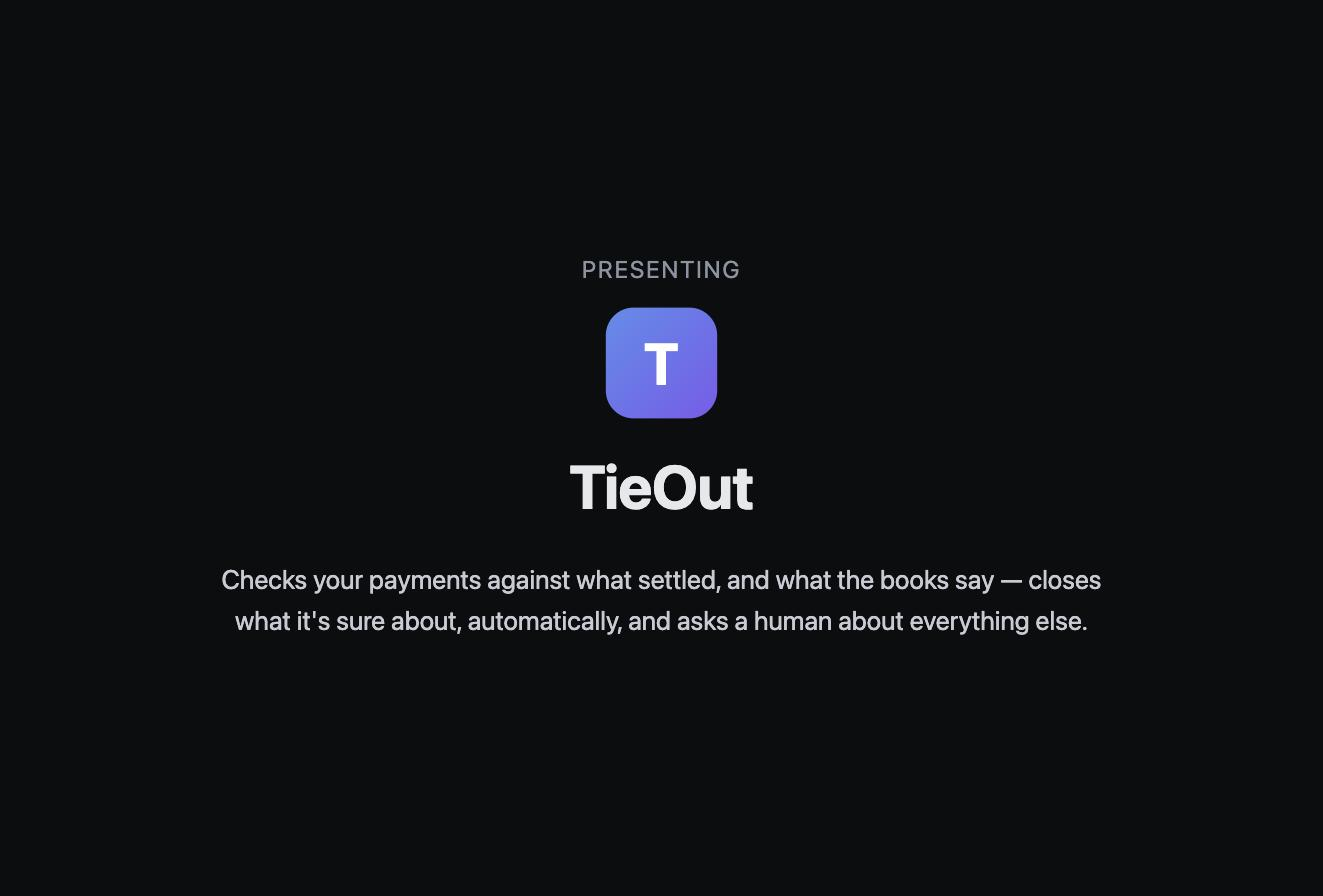
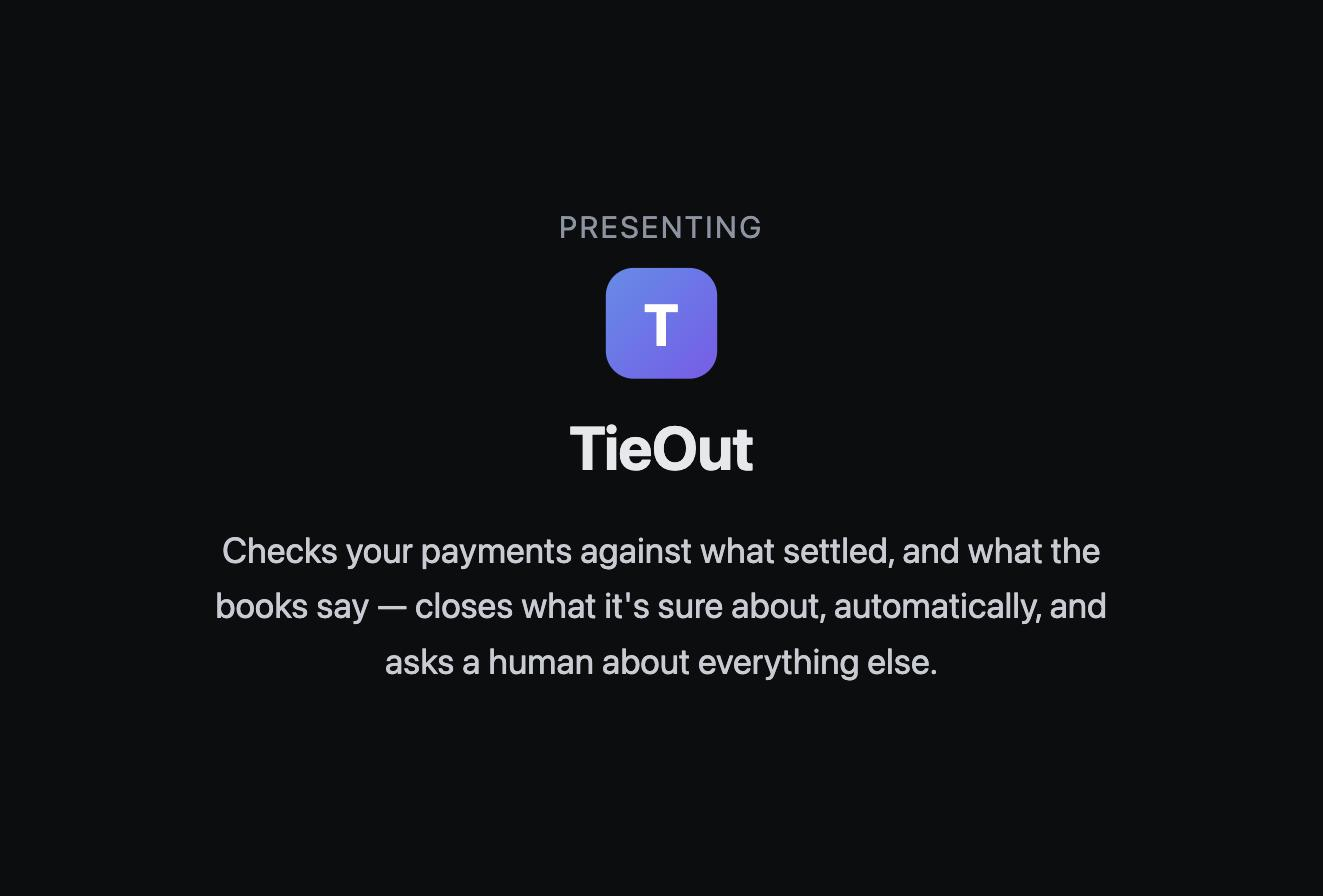
Reframe failure beat honestly, fix card visuals (font size, card 5 title)
No genuine bug exists in the core matching logic itself (verified
against git history and this project's own build log) -- declined to
fabricate one when asked to. Reframed card 4 as "what usually breaks
in this class of system, and why this one doesn't" instead: real
domain knowledge (floating-point money bugs, one-payment-per-order
assumptions) paired with this engine's actual defenses. Documented
plainly in VIDEO_SCRIPT.md that this isn't a literal incident story,
so it's not a surprise if asked about directly.

Also: caption text on cards 3/4/5 was too small next to the headline
(1.7-2vw vs 4.8-5.6vw) -- bumped to 2.3-2.7vw. Card 5's title ("Not
invented. Built on it.") required the subtitle to make sense --
replaced with "Nothing here is faked," which stands on its own.

Claude-Session: https://claude.ai/code/session_01AbR22vDa4TFpbHsYdBaas3

Changed region(s): [[0.155, 0.2188, 0.8367, 0.7812]]

diff --git a/docs/VIDEO_SCRIPT.md b/docs/VIDEO_SCRIPT.md
@@ -87,8 +87,8 @@ each of the 5 cards before moving to Part 2.
 | `card1_problem_1.jpg` | `card1.mp4` | *"A customer pays. The gateway settles it. The books record it. Three numbers — that are supposed to be the same number."* |
 | `card2_problem_2.jpg` | `card2.mp4` | *"Most companies still check that by hand. One missed mismatch is real money, quietly gone."* |
 | `card3_tieout_intro.jpg` | `card3.mp4` | *"Presenting TieOut. It checks your payments against what settled, and what the books say — closes what it's sure about, automatically, and asks a human about everything else. Let's see it in action."* |
-| `card4_failure_recovery.jpg` | `card4.mp4` | *"What broke — and how we found out. Here's a real one, from today. We wired a live AI model into the product's chat, and it broke instantly — silently. Every question just quietly fell back to the safe default, like nothing was even connected. The easy guess was a bad API key. It wasn't. We went straight to the provider's own API instead of guessing, and found two real bugs stacked on each other: the model we'd defaulted to had just been deprecated, and its replacement was so slow out of the box — over twenty seconds a call — that every request was silently timing out before an answer could ever come back. Found both, fixed both, verified live against the real API before it ever touched production again. That's the standard here: when something quietly falls back to safe, don't assume it's fine — go find out why it's hiding."* |
-| `card5_close.jpg` | `card5.mp4` | *"None of this is invented. Order data comes live from Razorpay's actual test-mode API. Payment and settlement data is built field-for-field to match their real documented schema — including the exact quirk that makes the multi-payment case genuinely ambiguous, not staged for a demo. Knowing when not to act — that's the judgment this role is actually asking to see."* |
+| `card4_failure_recovery.jpg` | `card4.mp4` | *"What usually breaks — and why this doesn't. Most reconciliation engines get built the fast way: compare amounts as decimals, assume one payment per order, auto-close anything that looks clean. Every one of those is a real, common failure mode. Floating-point comparison quietly drifts. Assuming one payment per order means a real multi-payment order gets silently attributed to the wrong one. This engine does neither. Amounts are integer paise, never floats, so every comparison is exact — and a multi-payment order isn't guessed at, it's flagged, because Razorpay's own settlement schema genuinely can't say which payment a line belongs to. None of this was found by breaking in production. It was built test-first, one rule at a time, against a written spec — with an AI coding agent enforcing that discipline case by case, instead of shipping first and debugging later."* |
+| `card5_close.jpg` | `card5.mp4` | *"Nothing here is faked. Order data comes live from Razorpay's own test API. Payments and settlements are built field-for-field to match their real documented schema — that's where the multi-payment ambiguity you just saw actually comes from: a real quirk in their data, not something made up to look impressive. Knowing when not to act — that's the judgment this role is actually asking to see."* |
 
 Card 4's line is long — it's fine to read it a little slower, or pause
 briefly in the middle. Don't rush it.
@@ -296,6 +296,18 @@ reach its later pages, and follow whatever it says instead if it differs.
   and 8 in Part 2 take 10-25 seconds instead of being instant, and why
   step 8's answer is a real generated sentence rather than a canned "I
   don't know" message.
+- **Card 4 is deliberately framed as "what usually goes wrong in this
+  class of system," not a specific incident.** No genuine bug was ever
+  found in the core matching logic itself (checked directly against git
+  history and this project's own build log before writing it this way) —
+  every real bug this project hit was in the surrounding layers (tests,
+  UI, infra, the Gemini integration), not the comparison rules. The
+  content is real domain knowledge (floating-point money bugs and
+  one-payment-per-order assumptions are genuine, common failure modes)
+  and the claims about this specific engine (integer paise, the
+  multi-payment abstention) are real and verifiable — it's just not a
+  "here's what broke" story the way the buildathon's own phrasing
+  ("what broke at 2 AM") implies. Know that distinction if asked about it.
 - For the full reasoning behind every choice in this script (why these
   specific numbers, why cards instead of just narration, why the failure
   story is what it is), see `docs/STATUS.md` — this doc is intentionally

diff --git a/docs/STATUS.md b/docs/STATUS.md
@@ -1180,6 +1180,38 @@ per card and the demo's click/say sequence are unchanged from the prior
 version's content — this was a structural/format rewrite, not a rewrite of
 what's actually said.
 
+## Card 4/5 rewritten again; card font sizes fixed (2026-09-05)
+
+Two more rounds of feedback on the card content and the images
+themselves:
+
+**Card 4's content changed a second time.** Asked directly whether a real
+bug existed in the core matching logic itself (not tests, UI, infra, or
+the Gemini integration) — checked git history (`git log` on
+`engine.py`/`generate.py`/`evaluate.py`) and every bug/fix mention in this
+file, and none exists; every real bug this project hit was in the layers
+around the core engine, not the comparison rules themselves, consistent
+with `engine.py` having been built test-first against `taxonomy.py`'s
+spec rather than iteratively debugged. Declined to fabricate a fake
+incident for this reason (explicitly, when asked to) — an invented story
+that unravels under a follow-up question in the "architecture explanation"
+round is a worse outcome than a true story that's slightly less dramatic.
+Landed on a different, honest framing instead: "what usually breaks in
+this class of system, and why this one doesn't" — real domain knowledge
+(floating-point money bugs, one-payment-per-order assumptions) paired with
+this engine's actual real defenses (integer paise, the multi-payment
+abstention). This is not a "what broke" story the way the buildathon's own
+phrasing implies, and `VIDEO_SCRIPT.md`'s Notes section says so plainly,
+so nobody's caught flat-footed if asked about it directly.
+
+**Card visuals fixed**: the caption/subtitle text on cards 3, 4, and 5 was
+too small relative to the giant bold headline (1.7-2vw vs the headline's
+4.8-5.6vw) — bumped to 2.3-2.7vw across all three. Card 5's title ("Not
+invented. Built on it.") didn't stand on its own without the subtitle
+explaining it — changed to "Nothing here is faked," which does. All three
+images regenerated (same HTML/CSS-in-Chrome-screenshot method as the
+original 5) and replaced in `video_cards/`.
+
 ## Remaining — needs Vani specifically
 
 **Recording the actual pitch video.** Not just pending — actively prepped:
